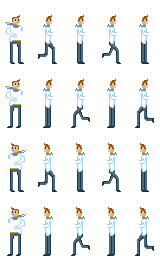
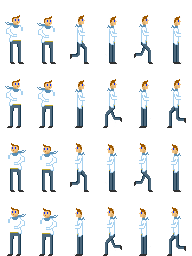
Add some bobbing to the player animation

diff --git a/src/com/elveskevtar/divebomb/gfx/Game.java b/src/com/elveskevtar/divebomb/gfx/Game.java
@@ -1555,22 +1555,22 @@ public abstract class Game extends JPanel
 
 			/*
 			 * every 24 iterations of AnimatePlayers, w is incremented once
-			 * until it reaches 4 where it will be reset to 1.
+			 * until it reaches 5 where it will be reset to 2.
 			 */
-			if (t % 24 == 0 && w != 4) {
+			if (t % 24 == 0 && w != 5) {
 				w++;
 			} else if (t % 24 == 0) {
-				w = 1;
+				w = 2;
 			}
 
 			/*
 			 * every 8 iterations of AnimatePlayers, r is incremented once until
-			 * it reaches 4 where it will reset to 1.
+			 * it reaches 5 where it will reset to 2.
 			 */
-			if (t % 8 == 0 && r != 4) {
+			if (t % 8 == 0 && r != 5) {
 				r++;
 			} else if (t % 8 == 0) {
-				r = 1;
+				r = 2;
 			}
 
 			/* cycles through the Players in the Game */
@@ -1589,7 +1589,7 @@ public abstract class Game extends JPanel
 					p.setSpriteY(0);
 				} else if (p.isMovingRight() && p.isFacingRight()) {
 					/* sets sprite x and y */
-					p.setSpriteX(0);
+					p.setSpriteX((int) (System.currentTimeMillis() / 500.0 % 2));
 					p.setSpriteY(0);
 				}
 
@@ -1607,7 +1607,7 @@ public abstract class Game extends JPanel
 					p.setSpriteY(2);
 				} else if (p.isMovingRight() && !p.isFacingRight()) {
 					/* sets sprite x and y */
-					p.setSpriteX(0);
+					p.setSpriteX((int) (System.currentTimeMillis() / 500.0 % 2));
 					p.setSpriteY(2);
 				}
 
@@ -1625,7 +1625,7 @@ public abstract class Game extends JPanel
 					p.setSpriteY(1);
 				} else if (!p.isMovingRight() && p.isFacingRight()) {
 					/* sets sprite x and y */
-					p.setSpriteX(0);
+					p.setSpriteX((int) (System.currentTimeMillis() / 500.0 % 2));
 					p.setSpriteY(1);
 				}
 
@@ -1643,7 +1643,7 @@ public abstract class Game extends JPanel
 					p.setSpriteY(3);
 				} else if (!p.isMovingRight() && !p.isFacingRight()) {
 					/* sets sprite x and y */
-					p.setSpriteX(0);
+					p.setSpriteX((int) (System.currentTimeMillis() / 500.0 % 2));
 					p.setSpriteY(3);
 				}
 
